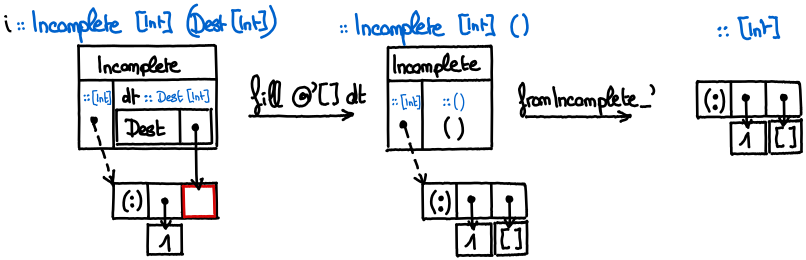
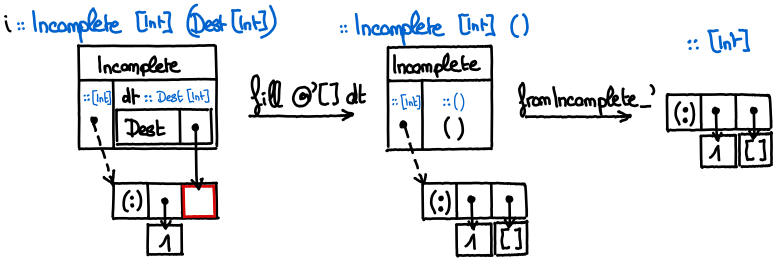
Move figures and ensure unbreakable blocks of code

Changed region(s): [[0.0, 0.0, 1.0, 0.9846], [0.4948, 0.6154, 0.6804, 1.0], [0.866, 0.0615, 0.9897, 0.2154]]

diff --git a/jflart-programming-with-destinations.tex b/jflart-programming-with-destinations.tex
@@ -3,6 +3,7 @@
 \usepackage[T1]{fontenc}
 \usepackage{xpatch}
 \usepackage{minted}
+\usemintedstyle{tango}
 \usepackage{ tipa }
 \usepackage{float}
 \usepackage[normalem]{ulem}
@@ -10,6 +11,8 @@
 \usepackage{newunicodechar}
 %\usepackage[section]{placeins}
 %\addbibresource{bibliography.bib}
+\usepackage{enumitem}
+\setlist[itemize]{topsep=0.5ex,itemsep=-0.5ex,partopsep=1ex,parsep=1ex}
 
 % Numéro et année des JFLAs visées par l'article, obligatoire.
 \jfla{35}{2024}
@@ -34,9 +37,9 @@
 \newcommand{\mpar}{\text{\,\textramshorns\,}}
 \newcommand{\dest}{-\prec}
 \newcommand{\TODO}[1]{{\color{red}\large #1}}
-\newcommand{\mnew}[1]{\colorbox{green}{#1}}
+\newcommand{\mnew}[1]{\colorbox{green!50}{#1}}
 \newcommand{\muline}[1]{\uline{#1}}
-\newcommand{\mold}[1]{\colorbox{red}{#1}}
+\newcommand{\mold}[1]{\colorbox{red!50}{#1}}
 \newunicodechar{⊸}{\ensuremath{\multimap}}
 \newunicodechar{→}{\ensuremath{\to}}
 \newunicodechar{←}{\ensuremath{\leftarrow}}
@@ -53,35 +56,37 @@
 \xpatchcmd{\mintinline}{\minted@fvset}{\minted@fvset\dontdofcolorbox}{}{} % see https://tex.stackexchange.com/a/401250/
 \makeatother
 \renewcommand{\MintedPygmentize}{./pygmentize_local}
+\newlength{\currentparskip}
+\newenvironment{unbreakable}
+{%
+  \setlength{\currentparskip}{\parskip}% Save current \parskip
+  \setlength{\parskip}{\currentparskip}% Save current \parskip
+  \par\vspace{0.5\baselineskip}% Add possible separation
+  \noindent\begin{minipage}{\textwidth}%
+    \setlength{\parskip}{\currentparskip}% Restore current \parskip
+  %\medskip%
+}
+{%
+  \end{minipage}%
+  \par\vspace{0.5\baselineskip}% Add possible vertical separation
+}
 
 \begin{document}
+
 
 \maketitle
 
 \begin{abstract}
-Destination-passing style programming introduces destinations, which represents the address of a write-once memory cell. Those destinations can be passed as function parameters, and thus enable the caller of a function to keep control over memory management: the body of the called function will just be responsible of filling that memory cell. This is especially useful in functional programming languages, in which the body of a function is typically responsible for allocation of the result value.
+Destination-passing style programming introduces destinations, which represent the address of a write-once memory cell. Those destinations can be passed as function parameters, and thus enable the caller of a function to keep control over memory management: the body of the called function will just be responsible of filling that memory cell. This is especially useful in functional programming languages, in which the body of a function is typically responsible for allocation of the result value.
 
 Programming with destination in Haskell is an interesting way to improve performance of critical parts of some programs, without sacrificing memory guarantees. Indeed, thanks to a linearly-typed API I present, a write-once memory cell cannot be left uninitialized before being read, and is still disposed of by the garbage collector when it is not in use anymore, eliminating the risk of uninitialized read, memory leak, or double-free errors that can arise when memory is managed manually.
 
-In this article, I present an implementation of destinations for Haskell, which relies on so-called compact regions. I demonstrate, in particular, a 15-40\% improvement over memory allocation in a simple parser example, and 0-50\% improvement in run time.
+In this article, I present an implementation of destinations for Haskell, which relies on so-called compact regions. I demonstrate, in particular, a simple parser example for which the destination-based version uses 10\% less memory and takes only 60\% of the time of its naive counterpart.
 \end{abstract}
 
 %\tableofcontents{}
 
 \TODO{[] Link repo? -> software heritage}\\
-
-\TODO{Issues formatting}
-\TODO{r used as variable}
-\TODO{char detected as type}
-\TODO{char with escape sequence}
-\TODO{add lCtor, k}
-\TODO{\# in type name}
-\TODO{Add \.? to type variables}
-
-\TODO{Cut map from benchmarks \& add a sentence in DList/related work about it}
-\TODO{Change toc in intro by "set expectations" paragraph}
-\TODO{Paragraph instead of subsections for benchmarks}
-
 \TODO{reparler de map quelque part}
 
 \section{Introduction}
@@ -96,7 +101,7 @@ In this paper, I design a destination API whose memory safety (write-once model)
 
 The Haskell programming language is equipped with support for linear types through its main compiler, \emph{GHC}, since version 9.0.1~\cite{bernardy_linear_2018}. But Haskell is also a \emph{pure} functional language, which means that side effects are only safe to produce inside monadic functions. This led me to set a slightly more refined goal: I wanted to hide impure memory effects related to destinations behind a \emph{pure} Haskell API, and make the whole safe through the linear type discipline. Although the theoretical proofs of type safety haven't been made yet, the early practical results seem to indicate that I achieved that goal despite the technical challenges that arose. The purity of the API makes it very practical to partially adopt DPS programming in a codebase, compared to a monadic API which would be ``contaminating''.
 
-\paragraph{The main contributions} of this paper are
+\paragraph{The main contributions of this paper are}
 \begin{itemize}
 \item A linearly-typed API for destinations that let us build and manipulate data structures with holes while exposing a pure interface (section~\ref{sec:api})
 \item A first implementation of destinations for Haskell relying on so-called compact regions (section~\ref{sec:implementation}), together with a performance evaluation (section~\ref{sec:benchmark}).
@@ -134,56 +139,15 @@ Linked lists are a staple of functional programming, but they aren't efficient f
 
 In an imperative context, it would be quite easy to concatenate linked lists efficiently. One just have to keep both a pointer to the root and to the last \emph{cons} cell of each list. Then, to concatenate two lists, one just have to mutate the last \emph{cons} cell of the first one to point to the root of the second list.
 
-It isn't possible to do so in an immutable functional context though. Instead, \emph{Difference lists} can be used: they are structures that are fast to convert into lists ($\mathcal{O}(1)$ amortized) and tend to emulate the idea of having a mutable (here, write-once) last \emph{cons} cell. Usually, a difference list \mintinline{haskellc}`x1 : ... : xn : □` is encoded by the function \mintinline{haskellc}`\ys -> x1 : ... : xn : ys` taking a last element \mintinline{haskellc}`ys :: [a]` and returning a value of type \mintinline{haskellc}`[a]` too.
+It isn't possible to do so in an immutable functional context though. Instead, \emph{difference lists} can be used: they are structures that are fast to convert into lists ($\mathcal{O}(1)$ amortized) and tend to emulate the idea of having a mutable (here, write-once) last \emph{cons} cell. Usually, a difference list \mintinline{haskellc}`x1 : ... : xn : □` is encoded by the function \mintinline{haskellc}`\ys -> x1 : ... : xn : ys` taking a last element \mintinline{haskellc}`ys :: [a]` and returning a value of type \mintinline{haskellc}`[a]` too.
 
 With such representation, concatenation is function composition: \mintinline{haskellc}`f1 <> f2 = f1 . f2`, and we have \mintinline{haskellc}`mempty = id`\footnote{\mintinline{haskellc}`mempty` and \mintinline{haskellc}`<>` are the usual notations for neutral element and binary operation of a monoid in Haskell}, \mintinline{haskellc}`toList f = f []` and \mintinline{haskellc}`fromList xs = \ys → xs ++ ys`.
 
-In DPS, instead of encoding the concept of a write-once hole with a function, we can represent the hole as a first-class object with a \emph{destination}. A difference list now become an actual data structure in memory --- not just a pending computation --- that has two handles: one to the root of the list of type \mintinline{haskellc}`[a]`, and one to the yet-to-be-filled hole in the last cons cell, represented by a destination of type \mintinline{haskellc}`Dest [a]`.
+In DPS, instead of encoding the concept of a write-once hole with a function, we can represent the hole of type \mintinline{haskellc}`[a]` as a first-class object with a \emph{destination} of type \mintinline{haskellc}`Dest [a]`. A difference list now become an actual data structure in memory --- not just a pending computation --- that has two handles: one to the root of the list of type \mintinline{haskellc}`[a]`, and one to the yet-to-be-filled hole in the last cons cell, represented by the destination of type \mintinline{haskellc}`Dest [a]`.
 
 With the function encoding, it isn't possible to read the list until a last element of type \mintinline{haskellc}`[a]` have been supplied to complete it. With the destination representation, this constraint must persists: the actual list \mintinline{haskellc}`[a]` shouldn't be readable until the accompanying destination is filled, as pattern-matching on the hole would lead to a dreaded \emph{segmentation fault}. This constraint is embodied by the \mintinline{haskellc}`Incomplete a b` type of our destination API: \mintinline{haskellc}`b` is what needs to be linearly consumed to make the \mintinline{haskellc}`a` readable. Most of the time, the \mintinline{haskellc}`b` side carries the destinations of the structure. A difference list is then \mintinline{haskellc}`type DList a = Incomplete [a] (Dest [a])`: the \mintinline{haskellc}`Dest [a]` must be filled (with a \mintinline{haskellc}`[a]`) to get a readable \mintinline{haskellc}`[a]`.
 
 The implementation of destination-backed difference lists is presented in table~\ref{table:impl-dlist}.
-\begin{table}[t]
-\small
-\begin{minted}[linenos]{haskellc}
-data [a] = {- nil constructor -} [] | {- cons constructor -} (:) a [a]
-
-type DList a = Incomplete [a] (Dest [a])
-
-alloc :: DList a
-
-append :: DList a ⊸ a → DList a
-append i x =
-  i <&> \d → case fill @'(:) d of
-    (dh, dt) → fillLeaf x dh ;; dt
-
-concat :: DList a ⊸ DList a ⊸ DList a
-concat i1 i2 = i1 <&> \dt1 → fillComp i2 dt1
-
-toList :: DList a ⊸ [a]
-toList i = fromIncomplete_' (i <&> \dt → fill @'[] dt)
-\end{minted}
-\caption{Implementation of difference lists with destinations}
-\label{table:impl-dlist}
-\end{table}
-
-\begin{figure}[p]\centering
-  \includegraphics[width=9cm]{fillCons.png}
-  \caption{Memory behavior of \mintinline{haskellc}`fill @'(:) :: Dest [a] ⊸ (Dest a, Dest [a])`}
-  \label{fig:schema-fillCons}
-\end{figure}
-
-\begin{figure}[p]\centering
-  \includegraphics[width=7.5cm]{fillNil.png}
-  \caption{Memory behavior of \mintinline{haskellc}`fill @'[] :: Dest [a] ⊸ ()`}
-  \label{fig:schema-fillNil}
-\end{figure}
-
-\begin{figure}[p]\centering
-  \includegraphics[width=8.5cm]{fillLeaf.png}
-  \caption{Memory behavior of \mintinline{haskellc}`fillLeaf :: a → Dest [a] ⊸ ()`}
-  \label{fig:schema-fillLeaf}
-\end{figure}
 
 % Doesn't bring much more compared to fig:schema-dlist-concat
 % \begin{figure}[t]\centering
@@ -192,29 +156,58 @@ toList i = fromIncomplete_' (i <&> \dt → fill @'[] dt)
 %   \label{fig:schema-fillComp}
 % \end{figure}
 
+\begin{table}[p]
+  \small
+  \begin{minted}[linenos]{haskellc}
+  data [a] = {- nil constructor -} [] | {- cons constructor -} (:) a [a]
+  
+  type DList a = Incomplete [a] (Dest [a])
+  
+  alloc :: DList a
+  
+  append :: DList a ⊸ a → DList a
+  append i x =
+    i <&> \d → case fill @'(:) d of
+      (dh, dt) → fillLeaf x dh ;; dt
+  
+  concat :: DList a ⊸ DList a ⊸ DList a
+  concat i1 i2 = i1 <&> \dt1 → fillComp i2 dt1
+  
+  toList :: DList a ⊸ [a]
+  toList i = fromIncomplete_' (i <&> \dt → fill @'[] dt)
+  \end{minted}
+  \caption{Implementation of difference lists with destinations}
+  \label{table:impl-dlist}
+  \end{table}
+
 \begin{figure}[p]\centering
-  \includegraphics[width=4.2cm]{alloc.png}
-  \caption{Memory behavior of \mintinline{haskellc}`alloc`}
-  \label{fig:schema-alloc}
+  \hspace{-0.5cm}\begin{minipage}{0.3\textwidth}
+    \includegraphics[width=4cm]{alloc.png}
+    \caption{\mintinline{haskellc}`alloc`}
+    \label{fig:schema-alloc}
+  \end{minipage}\hspace{0.5cm}%
+  \begin{minipage}{0.7\textwidth}
+    \includegraphics[width=9.7cm]{dlist-toList.png}
+    \caption{Memory behavior of \mintinline{haskellc}`toList i`}
+    \label{fig:schema-dlist-toList}
+  \end{minipage}
 \end{figure}
 
 \begin{figure}[p]\centering
-  \includegraphics[width=14cm]{dlist-append.png}
+  \includegraphics[width=13.8cm]{dlist-append.png}
   \caption{Memory behavior of \mintinline{haskellc}`append alloc 1`}
   \label{fig:schema-dlist-append}
 \end{figure}
 
-\begin{figure}[t]\centering
-  \includegraphics[width=13.5cm]{dlist-concat.png}
+\begin{figure}[p]\centering
+  \includegraphics[width=13cm]{dlist-concat.png}
   \caption{Memory behavior of \mintinline{haskellc}`concat i1 i2`}
   \label{fig:schema-dlist-concat}
 \end{figure}
 
-\begin{figure}[t]\centering
-  \includegraphics[width=11.5cm]{dlist-toList.png}
-  \caption{Memory behavior of \mintinline{haskellc}`toList i`}
-  \label{fig:schema-dlist-toList}
-\end{figure}
+% \begin{figure}[p]\centering
+
+% \end{figure}
 
 \begin{itemize}
   \item \mintinline{haskellc}`alloc` returns a
@@ -252,7 +245,7 @@ toList i = fromIncomplete_' (i <&> \dt → fill @'[] dt)
 
 This simplified API for difference lists still lacks some linearity requirements to make it write-once/immutable. In particular, the result of \mintinline{haskellc}`alloc` should be used linearly but this isn't enforced by this API, and as a result, one could fill the embedded destination twice. Linearity concerns will be addressed in section~\ref{ssec:api-linearity}.
 
-As we see, thanks to destinations, we can write functions whose implementation is closer to their intended memory behavior (here, implementing data structures with holes), and get comparable or sometimes better performance than the implementations based on pure functional techniques. A performance report is available in section~\ref{sec:benchmark}.\TODO{Arnaud: thought: I don't have time to make such changes tonight, but I feel that there are a few things that can be improved in this section. First it would be better for the reader to find the pictures of the dlist functions first before seeing that of the fill functions and such (maybe only these actually in this section, and you could explain the fill functions in the next?). Second there probably should be a comment about linearity, and a forward link to the section that explains the API in details. Third, I don't think that saying that the performance are as good as the functional encoding is sending the right message (even though you have to admit that your implementation doesn't make it quite obvious that the destination-based implementation is better).}
+As we see, thanks to destinations, we can write functions whose implementation is closer to their intended memory behavior (here, implementing data structures with holes), and get comparable or sometimes better performance than the implementations based on pure functional techniques. A performance report is available in section~\ref{sec:benchmark}.\TODO{Arnaud: thought: I don't have time to make such changes tonight, but I feel that there are a few things that can be improved in this section. Maybe only explain the fill functions in the next?. Third, I don't think that saying that the performance are as good as the functional encoding is sending the right message (even though you have to admit that your implementation doesn't make it quite obvious that the destination-based implementation is better).}
 
 \subsection{Breadth-first tree traversal}\label{ssec:bf-tree-traversal}
 
@@ -506,6 +499,7 @@ Conversely, the function \mintinline{haskellc}`toIncomplete` takes a non-linear 
 
 In Haskell, types aren't linear by themselves in Linear Haskell. Instead, functions can be made to use their arguments linearly or not. So in direct style, where the producer of a resource isn't aware of the consumers, there is no way to state that the resource must be used exactly once:
 
+\begin{unbreakable}
 {\small
 \begin{minted}[linenos]{haskellc}
 createR :: () ⊸ Resource   -- no way to indicate that the result must be used once
@@ -515,9 +509,11 @@ exampleShouldFail :: () =  -- accepted even though x is consumed twice
   let x = createR ¤() in consumeR x ;; consumeR x
 \end{minted}
 }
+\end{unbreakable}
 
 The solution is to make the production of the resource implicit but force the consumers to become explicit so their signature can be checked:
 
+\begin{unbreakable}
 {\small
 \begin{minted}[linenos,escapeinside=°°]{haskellc}
 withR :: (Resource ⊸ a) ⊸ a
@@ -526,10 +522,12 @@ consumeR :: Resource ⊸ ()
 exampleFail :: () = withR (\x → consumeR °\mold{x}° ;; consumeR °\mold{x}°) -- not linear
 \end{minted}
 }
+\end{unbreakable}
 
 The \mintinline{haskellc}`Resource` type is in positive position in the signature of \mintinline{haskellc}`withR`, so that function should somehow know how to produce a \mintinline{haskellc}`Resource`, but this is opaque for the user. As the consumer of the resource is now explicitly passed to \mintinline{haskellc}`withR` (as a callback), \mintinline{haskellc}`withR` can enforce that this callback will use the resource exactly once, through its signature.
 
 Still, this is not enough; because \mintinline{haskellc}`\x → x` is indeed a linear callback, one could use \mintinline{haskellc}`withR (\x → x)` to leak a \mintinline{haskellc}`Resource`, and then use it in a non-linear fashion in the outside world. Hence we must forbid the resource from appearing anywhere in the return type of the callback. To do that, we will ask the return type to be wrapped in \mintinline{haskellc}`Ur`: because the resource comes from the left of a linear arrow, and doesn't implement \mintinline{haskellc}`Movable`, it cannot be wrapped in \mintinline{haskellc}`Ur` without breaking linearity, so won't be able to escape (see subsection~\ref{ssec:intro-linearity}). On the other hand, a \mintinline{haskellc}`Movable` value of type \mintinline{haskellc}`()` or \mintinline{haskellc}`Int` can be returned:
+\begin{unbreakable}
 {\small
 \begin{minted}[linenos,escapeinside=°°]{haskellc}
 withR' :: (Resource ⊸ Ur a) ⊸ Ur a
@@ -539,6 +537,7 @@ exampleOk'   :: Ur ()       = withR' (\x → let u :: () = consumeR x' in move u
 exampleFail' :: Ur Resource = withR' (\x → °\mold{¤Ur x}°) -- not linear
 \end{minted}
 }
+\end{unbreakable}
 
 This explicit \emph{scope function} trick will no longer be necessary when linear constraints will land in GHC (see \cite{spiwack_linearly_2022}). In the meantime, this principle have been used to ensure safety of the DPS implementation in Haskell.
 
@@ -560,7 +559,7 @@ This explicit \emph{scope function} trick will no longer be necessary when linea
 
 If an \mintinline{haskellc}`Incomplete` object is used linearly, then its destinations will be written to exactly once. Since the only way to write to destination is \mintinline{haskellc}`fmap`, which consumes the destination linearly. So we need to unsure that \mintinline{haskellc}`Incomplete` objects are used linearly. For that, we introduce a new token type \mintinline{haskellc}`Token`. A token can be linearly exchanged one for one with an \mintinline{haskellc}`Incomplete` of any type through \mintinline{haskellc}`alloc`, and can be linearly duplicated with \mintinline{haskellc}`dup2` or linearly deleted with \mintinline{haskellc}`consume`. However, it cannot be linearly stored in \mintinline{haskellc}`Ur` as it doesn't implement \mintinline{haskellc}`Movable`.
 
-As in the example above, we just ensure that \mintinline{haskellc}`withToken :: ∀ a. (Token ⊸ Ur a) ⊸ Ur a` is the only source of \mintinline{haskellc}`Token`s around. Now, to produce an \mintinline{haskellc}`Incomplete` with \mintinline{haskellc}`alloc`, one must get a token first, so has to be in the scope of a callback which is passed to \mintinline{haskellc}`withToken`. Putting either a \mintinline{haskellc}`Token` or \mintinline{haskellc}`Incomplete` in \mintinline{haskellc}`Ur` inside the callback would then make the callback non-linear. So none of them can escape the scope as is, but a structure built from an \mintinline{haskellc}`Incomplete` and finalized with \mintinline{haskellc}`fromIncomplete` or \mintinline{haskellc}`fromIncomplete_` would be automatically wrapped in \mintinline{haskellc}`Ur`, thus could safely escape the scope\footnote{This is why \mintinline{haskellc}`fromIncomplete'` and \mintinline{haskellc}`fromIncomplete_'` aren't that useful in the memory-safe API: the built structure would be stuck in the scope function without its \mintinline{haskellc}`Ur` free pass around.}.
+As in the example above, we just ensure that \mintinline{haskellc}`withToken :: (Token ⊸ Ur a) ⊸ Ur a` is the only source of \mintinline{haskellc}`Token`s around. Now, to produce an \mintinline{haskellc}`Incomplete` with \mintinline{haskellc}`alloc`, one must get a token first, so has to be in the scope of a callback which is passed to \mintinline{haskellc}`withToken`. Putting either a \mintinline{haskellc}`Token` or \mintinline{haskellc}`Incomplete` in \mintinline{haskellc}`Ur` inside the callback would then make the callback non-linear. So none of them can escape the scope as is, but a structure built from an \mintinline{haskellc}`Incomplete` and finalized with \mintinline{haskellc}`fromIncomplete` or \mintinline{haskellc}`fromIncomplete_` would be automatically wrapped in \mintinline{haskellc}`Ur`, thus could safely escape the scope\footnote{This is why \mintinline{haskellc}`fromIncomplete'` and \mintinline{haskellc}`fromIncomplete_'` aren't that useful in the memory-safe API: the built structure would be stuck in the scope function without its \mintinline{haskellc}`Ur` free pass around.}.
 
 \subsection{Filling functions for destinations}
 
@@ -571,6 +570,8 @@ To fill a hole represented by \mintinline{haskellc}`Dest a`, three functions are
 \mintinline{haskellc}`fillLeaf :: ∀ a. a → Dest a ⊸ ()` will use a value of type \mintinline{haskellc}`a` to fill the hole represented by the destination. The destination is consumed linearly, but the value to fill the hole isn't (as indicated by the first non-linear arrow). Memory-wise, the address of the object \mintinline{haskellc}`a` is written into the memory cell pointed to by the destination (see figure~\ref{fig:schema-fillLeaf}).
 
 \mintinline{haskellc}`fillComp :: ∀ a b. Incomplete a b ⊸ Dest a ⊸ b` is used to plug two \mintinline{haskellc}`Incomplete` objects together. The parent \mintinline{haskellc}`Incomplete` object into which the child \mintinline{haskellc}`Incomplete` will be plugged isn't represented in the signature of the function. Instead, only the hole of the parent that will host the address of the child is represented by \mintinline{haskellc}`Dest a`; and \mintinline{haskellc}`Incomplete a b` in the signature refers to the child object. A call to \mintinline{haskellc}`fillComp` always takes place in the scope of \mintinline{haskellc}`fmap`/\mintinline{haskellc}`<&>` over the parent object:
+
+\begin{unbreakable}
 {\small
 \begin{minted}[linenos,escapeinside=°°]{haskellc}
 parent :: Incomplete BigStruct (Dest SmallStruct, Dest OtherStruct)
@@ -580,12 +581,15 @@ comp = parent <&> \(ds, extra) → fillComp child ds
        :: Incomplete BigStruct (Dest Int, Dest OtherStruct)
 \end{minted}
 }
+\end{unbreakable}
+
 The resulting structure \mintinline{haskellc}`comp` is morally a \mintinline{haskellc}`BigStruct` like \mintinline{haskellc}`parent`, that inherited the holes from the child structure (represented by the \mintinline{haskellc}`Dest Int`). The other destination from the parent, \mintinline{haskellc}`Dest OtherStruct`, is still there to be filled too. The memory behavior of \mintinline{haskellc}`fillComp` in action can be seen in figure~\ref{fig:schema-dlist-concat}.
 
 \mintinline{haskellc}`fill :: ∀ lCtor a. Dest a ⊸ DestsOf lCtor a` is probably the most interesting of the three. It takes a constructor as a type parameter (\mintinline{haskellc}`lCtor`) and allocates a hollow heap object that has the same header/tag as the specified constructor but unspecified fields. The address of the allocated hollow constructor is written in the destination that is passed to \mintinline{haskellc}`fill`. As a result, one hole is now filled, but there is one new hole in the structure for each field left unspecified in the hollow constructor that is now part of the bigger structure. So \mintinline{haskellc}`fill` returns one destination of matching type for each of the fields of the constructor. The memory behavior of \mintinline{haskellc}`fill @'(:) :: Dest [a] ⊸ (Dest a, Dest [a])` is given in figure~\ref{fig:schema-fillCons} and the one of \mintinline{haskellc}`fill @'[] :: Dest [a] ⊸ ()` is given in figure~\ref{fig:schema-fillNil}.
 
 \mintinline{haskellc}`DestsOf` is a type family (i.e. a function operating on types and returning a type) whose role is to map a constructor to the type of destinations for its fields. For example, \mintinline{haskellc}`DestsOf '[] [a] = ()` and \mintinline{haskellc}`DestsOf '(:) [a] = (Dest a, Dest [a])`. More generally, there is a duality between the type of a constructor \mintinline[escapeinside=°°]{haskellc}`¤Ctor :: (¤f°$_i$°)°$_{i \in 1..n}$° → a` and the associated destination-filling function \mintinline[escapeinside=°°]{haskellc}`fill @'Ctor :: Dest a ⊸ (Dest ¤f°$_i$°)°$_{i \in 1..n}$°`: types flip side around the arrow, and a \mintinline{haskellc}`Dest` prefix is added to each type. Destination-based data building can be seen as more general than the usual bottom-up constructor approach, as we can recover a constructor \mintinline{haskellc}`¤Ctor` from the associated function \mintinline[escapeinside=°°]{haskellc}`fill @'Ctor`, but not the reverse:
 
+\begin{unbreakable}
 {\small
 \begin{minted}[linenos,escapeinside=°°]{haskellc}
 ¤Ctor :: (¤f°$_i$°)°$_{i \in 1..n}$° → a
@@ -594,6 +598,21 @@ The resulting structure \mintinline{haskellc}`comp` is morally a \mintinline{has
     (dx°$_i$°)°$_{i \in 1..n}$° → ;;°$_{i \in 1..n}$° (fillLeaf x°$_i$° dx°$_i$°))
 \end{minted}
 }
+\end{unbreakable}
+
+\begin{figure}[t]\centering
+  \includegraphics[width=8cm]{fillCons.png}
+  \caption{Memory behavior of \mintinline{haskellc}`fill @'(:) :: Dest [a] ⊸ (Dest a, Dest [a])`}
+  \label{fig:schema-fillCons}
+
+  \includegraphics[width=6.8cm]{fillNil.png}
+  \caption{Memory behavior of \mintinline{haskellc}`fill @'[] :: Dest [a] ⊸ ()`}
+  \label{fig:schema-fillNil}
+
+  \includegraphics[width=7.6cm]{fillLeaf.png}
+  \caption{Memory behavior of \mintinline{haskellc}`fillLeaf :: a → Dest [a] ⊸ ()`}
+  \label{fig:schema-fillLeaf}
+\end{figure}
 
 \section{Implementing destinations in Haskell}\label{sec:implementation}
 
@@ -655,7 +674,7 @@ The desired outcome is to only allocate a root receiver in the region for actual
 \end{itemize}
 
 \begin{figure}[t]\centering
-  \includegraphics[width=13cm]{alloc-region.png}
+  \includegraphics[width=12cm]{alloc-region.png}
   \caption{Memory behaviour of \mintinline{haskellc}`alloc` and \mintinline{haskellc}`intoIncomplete` in the region implementation}
   \label{fig:schema-alloc-region}
 \end{figure}
@@ -670,6 +689,7 @@ In subsection~\ref{ssec:impl-ghc}, we will see how to allocate a hollow heap obj
 
 \mintinline{haskellc}`GHC.Generics` is a built-in Haskell library that provides compile-time inspection of a type metadata through the \mintinline{haskellc}`Generic` typeclass: list of constructors, their fields, memory representation, etc. And that typeclass can be derived automatically for any type! Here's, for example, the \mintinline{haskellc}`Generic` representation of \mintinline{haskellc}`Maybe a`:
 
+\begin{unbreakable}
 {\small
 \begin{minted}[linenos,escapeinside=°°]{haskellc}
 repl> :k! Rep (Maybe a) () -- display the Generic representation of Maybe a
@@ -678,6 +698,7 @@ M1 D (MetaData "Maybe" "GHC.Maybe" "base" False) (
   :+: M1 C (MetaCons "¤Just" PrefixI False) (M1 S ¤[...¤] (K1 R a)))
 \end{minted}
 }
+\end{unbreakable}
 
 We see that there are two different possible constructors (indicated by lines starting with \mintinline{haskellc}`M1 C`): the first one, \mintinline{haskellc}`¤Nothing`, has zero field (indicated by \mintinline{haskellc}`U1`), and the second one, \mintinline{haskellc}`¤Just`, has one field of type \mintinline{haskellc}`a` (indicated by \mintinline{haskellc}`K1 R a`).
 
@@ -712,13 +733,15 @@ The only way to pass a constructor as a parameter to a primop so that the primop
 
 Its common practice to use a \mintinline{haskellc}`Proxy`/\mintinline{haskellc}`Proxy#` to pass a type parameter as an input to a function in Haskell. The problem is, the primop should be resolved at the \emph{STG to C-{}-} stage so it can access info table labels, and at that point, all type information about parameters have been erased. Fortunately, information about the actual return type of a primop is retained that late in the compilation process.
 
-If we cannot pass type literals through the arguments types, let's pass them through the return type! So we add a new polymorphic type \mintinline{haskellc}`InfoPtrPlaceholder# a`. That type has a phantom type parameter but shares the same memory representation as \mintinline{haskellc}`Addr#`. We can then use a type annotation to provide the type-level literal to the primop: \mintinline{haskellc}`reifyInfoPtr# (# #) :: InfoPtrPlaceholder# a` allows the implementation of \mintinline{haskellc}`reifyInfoPtr#` inside the compiler to read the actual value of the type parameter \mintinline{haskellc}`a` even though it is both phantom and in return position!
+If we cannot pass type literals through the arguments types, let's pass them through the return type! So we add a new polymorphic type \mintinline{haskellc}`InfoPtrPlaceholder# a` that has a phantom type parameter \mintinline{haskellc}`a` but shares the same memory representation as \mintinline{haskellc}`Addr#`. We can then use a type annotation for the return type to provide the type-level literal to the primop: \mintinline{haskellc}`reifyInfoPtr# (# #) :: InfoPtrPlaceholder# a` allows the implementation of \mintinline{haskellc}`reifyInfoPtr#` inside the compiler to read the actual value of the type parameter \mintinline{haskellc}`a` even though it is both phantom and in return position!
 
 The gist of this implementation is presented in table~\ref{table:impl-reifyInfoPtr}. The primop pattern-matches on the type \mintinline{haskellc}`resTy` of its return value. In the case it reads a string literal, it resolves the primop call into the label \mintinline{haskellc}`stg_<name>` (this is used in particular to retrieve \mintinline{haskellc}`stg_IND` to allocate indirection heap objects). In the case it reads a lifted data constructor, it resolves the primop call into the label which corresponds to the info table pointer of that constructor.
 
-The primop that we implemented, \mintinline{haskellc}`reifyInfoPtr#`, returns a value of type \mintinline{haskellc}`InfoPtrPlaceholder# a` and not directly an \mintinline{haskellc}`Addr#`, but this is not a problem: the former can be converted into the latter by calling the \mintinline{haskellc}`unsafeCoerceAddr` function supplied by GHC, as both types are represented by pointers/addresses under the hood.
+The primop that we implemented, \mintinline{haskellc}`reifyInfoPtr#`, doesn't directly return an \mintinline{haskellc}`Addr#`, but this is not a problem: \mintinline{haskellc}`InfoPtrPlaceholder# a` can be converted into the latter by calling the \mintinline{haskellc}`unsafeCoerceAddr` function supplied by GHC, as both types are represented by pointers/addresses under the hood.
 
 As an example, the following piece of code uses the two aforementioned primops to allocate a hollow \mintinline{haskellc}`¤Just` constructor in a compact region:
+
+\begin{unbreakable}
 {\small
 \begin{minted}[linenos]{haskellc}
 hollowJust :: Maybe a = compactAddHollow#
@@ -726,6 +749,7 @@ hollowJust :: Maybe a = compactAddHollow#
   (unsafeCoerceAddr (reifyInfoPtr# (# #) :: InfoPtrPlaceholder# 'Just ))
 \end{minted}
 }
+\end{unbreakable}
 
 \paragraph{Built-in type family to go from a lifted constructor to the associated symbol}
 
@@ -815,7 +839,7 @@ However, for programs which don't stress the GC, having the result of the functi
 All implementations are benchmarked against structures of size $2^{10}$, $2^{13}$ and $2^{16}$.
 
 \begin{figure}[t]\centering
-  \includegraphics[width=14cm]{bench-charts.pdf}
+  \includegraphics[width=13.8cm]{bench-charts.pdf}
   \caption{Benchmarks ran on AMD EPYC 7401P @ 2.0 GHz (single core, \texttt{-N1 -O2})}
   \label{fig:bench-charts}
 \end{figure}
